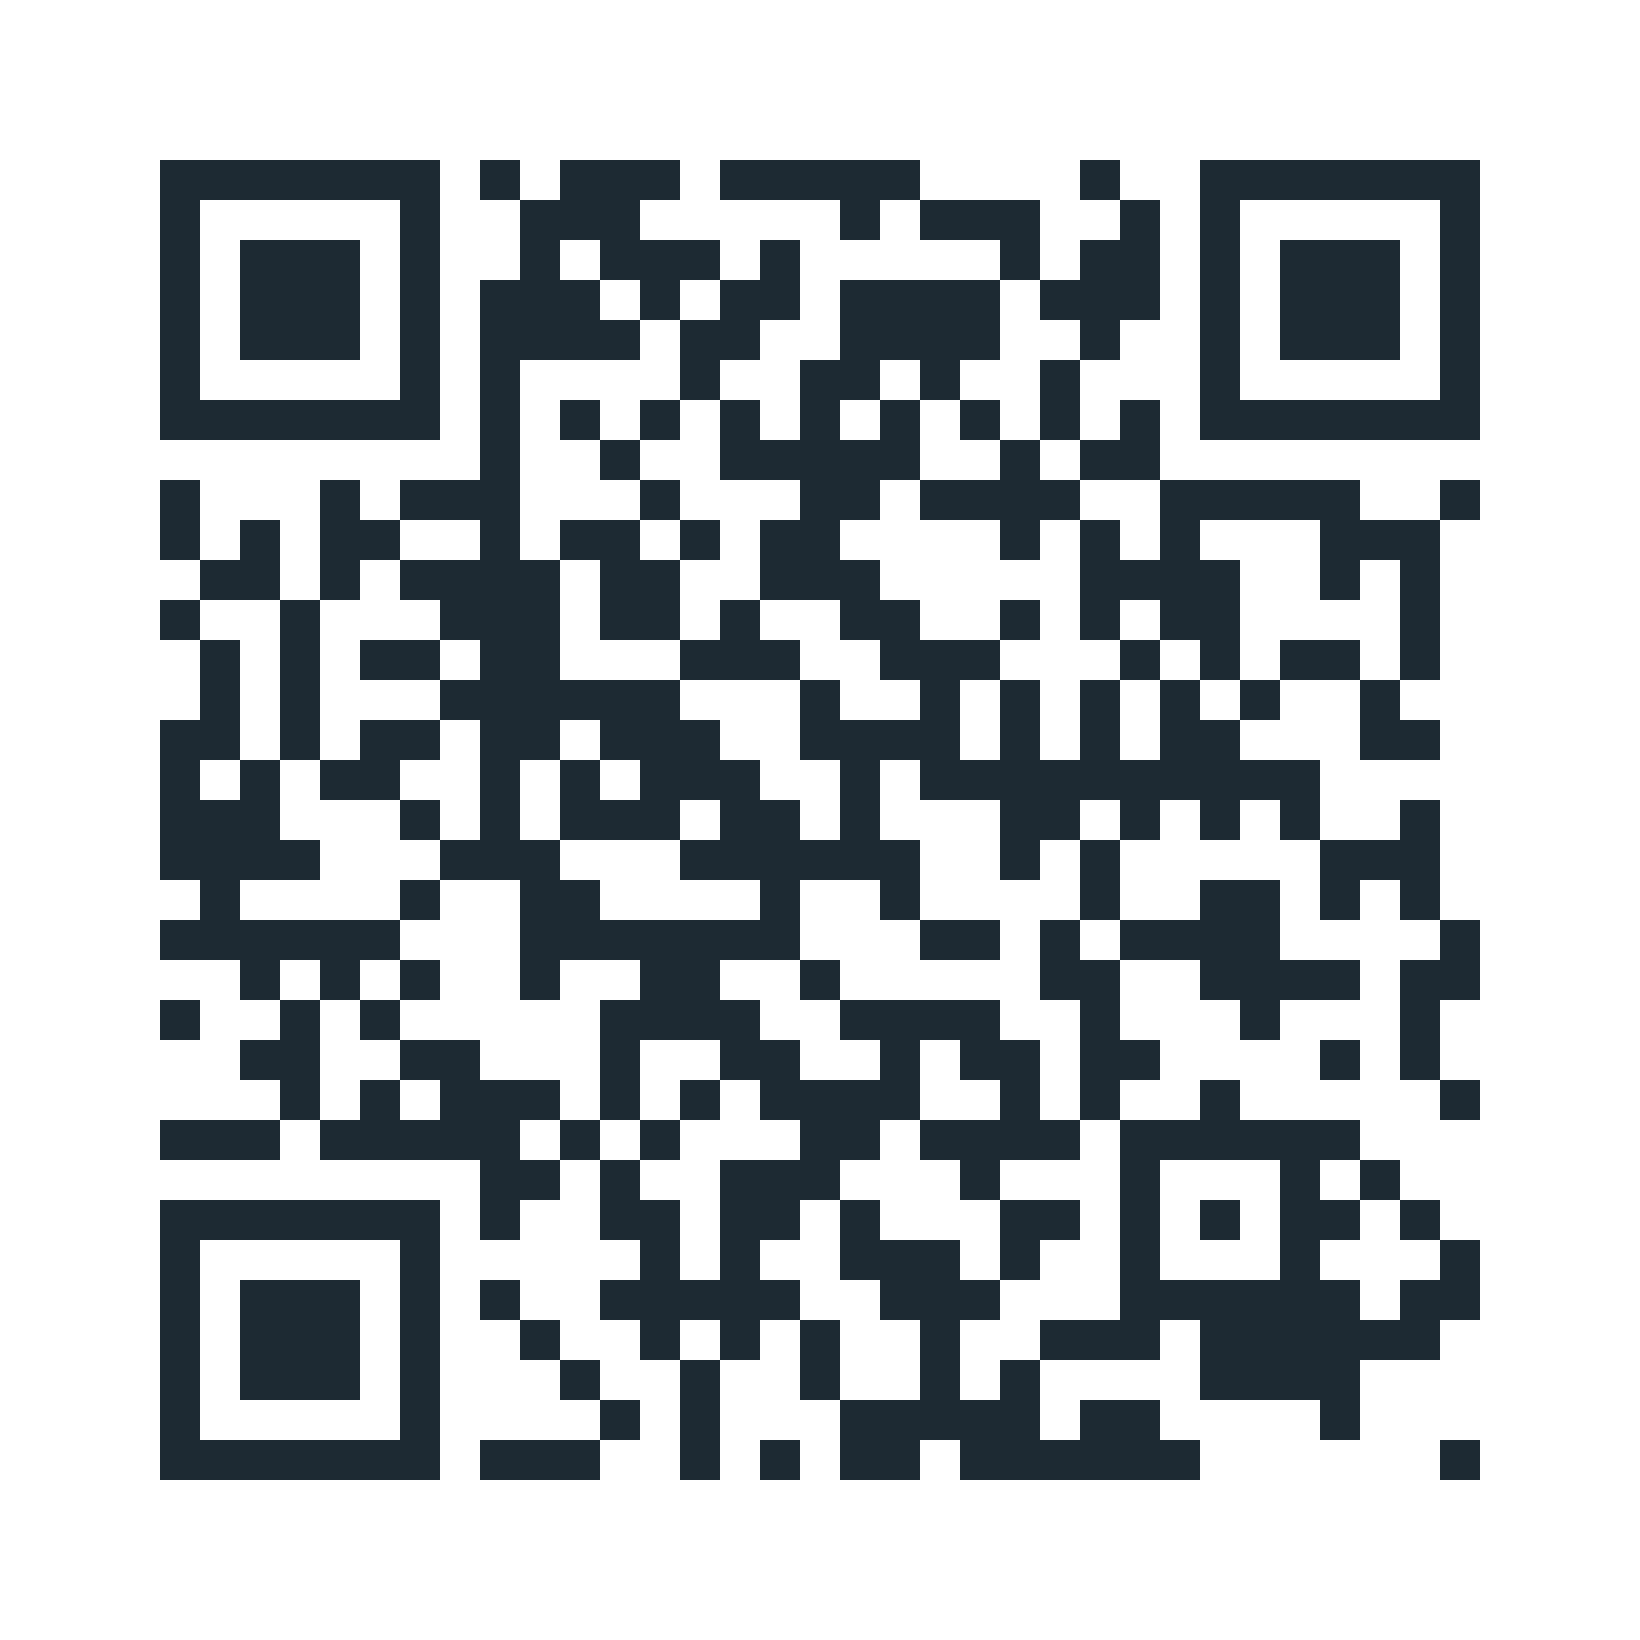
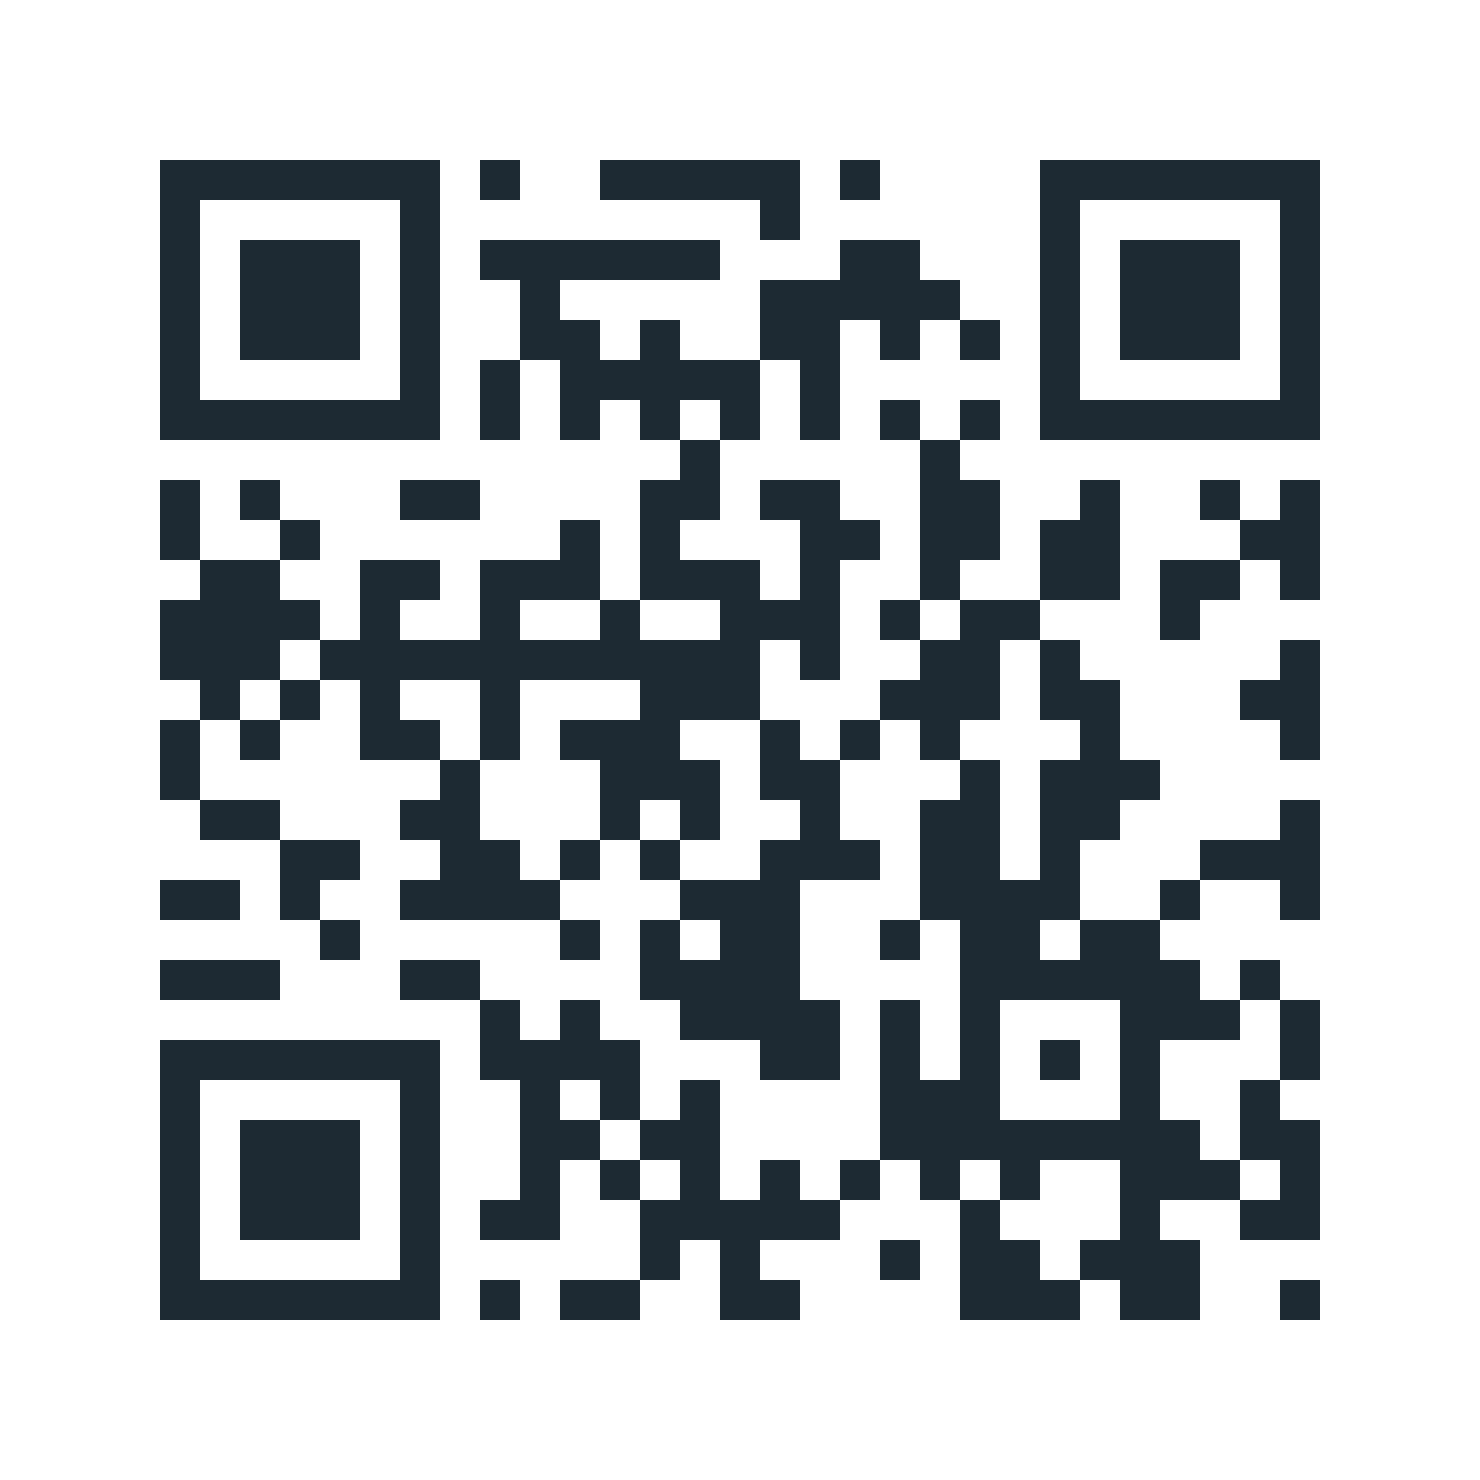
Unterricht Sokrates: QR-Code über das Skriptum-Cockpit (go.renateleeb.photos/p8so)
Scans werden jetzt im Cockpit gezählt. Die direkte Adresse bleibt gültig.

Claude-Session: https://claude.ai/code/session_01GkXpB9BfSXbyE9vh3nXx4u

diff --git a/unterricht/sokrates/index.html b/unterricht/sokrates/index.html
@@ -332,7 +332,7 @@ footer{margin-top:48px;padding-top:16px;border-top:1px solid var(--line);font-si
 </section>
 
 
-<div class="qr-ov" id="qrOv" hidden><div class="qr-card" role="dialog" aria-modal="true" aria-labelledby="qrT"><h2 id="qrT" style="font-family:var(--f-display)">Mit dem Handy öffnen</h2><svg role="img" aria-label="QR-Code zu renateleeb.photos/unterricht/sokrates" xmlns="http://www.w3.org/2000/svg" viewBox="0 0 41 41" shape-rendering="crispEdges"><rect width="41" height="41" fill="#ffffff"/><path d="M4,4h1v1h-1zM5,4h1v1h-1zM6,4h1v1h-1zM7,4h1v1h-1zM8,4h1v1h-1zM9,4h1v1h-1zM10,4h1v1h-1zM12,4h1v1h-1zM14,4h1v1h-1zM15,4h1v1h-1zM16,4h1v1h-1zM18,4h1v1h-1zM19,4h1v1h-1zM20,4h1v1h-1zM21,4h1v1h-1zM22,4h1v1h-1zM27,4h1v1h-1zM30,4h1v1h-1zM31,4h1v1h-1zM32,4h1v1h-1zM33,4h1v1h-1zM34,4h1v1h-1zM35,4h1v1h-1zM36,4h1v1h-1zM4,5h1v1h-1zM10,5h1v1h-1zM13,5h1v1h-1zM14,5h1v1h-1zM15,5h1v1h-1zM21,5h1v1h-1zM23,5h1v1h-1zM24,5h1v1h-1zM25,5h1v1h-1zM28,5h1v1h-1zM30,5h1v1h-1zM36,5h1v1h-1zM4,6h1v1h-1zM6,6h1v1h-1zM7,6h1v1h-1zM8,6h1v1h-1zM10,6h1v1h-1zM13,6h1v1h-1zM15,6h1v1h-1zM16,6h1v1h-1zM17,6h1v1h-1zM19,6h1v1h-1zM25,6h1v1h-1zM27,6h1v1h-1zM28,6h1v1h-1zM30,6h1v1h-1zM32,6h1v1h-1zM33,6h1v1h-1zM34,6h1v1h-1zM36,6h1v1h-1zM4,7h1v1h-1zM6,7h1v1h-1zM7,7h1v1h-1zM8,7h1v1h-1zM10,7h1v1h-1zM12,7h1v1h-1zM13,7h1v1h-1zM14,7h1v1h-1zM16,7h1v1h-1zM18,7h1v1h-1zM19,7h1v1h-1zM21,7h1v1h-1zM22,7h1v1h-1zM23,7h1v1h-1zM24,7h1v1h-1zM26,7h1v1h-1zM27,7h1v1h-1zM28,7h1v1h-1zM30,7h1v1h-1zM32,7h1v1h-1zM33,7h1v1h-1zM34,7h1v1h-1zM36,7h1v1h-1zM4,8h1v1h-1zM6,8h1v1h-1zM7,8h1v1h-1zM8,8h1v1h-1zM10,8h1v1h-1zM12,8h1v1h-1zM13,8h1v1h-1zM14,8h1v1h-1zM15,8h1v1h-1zM17,8h1v1h-1zM18,8h1v1h-1zM21,8h1v1h-1zM22,8h1v1h-1zM23,8h1v1h-1zM24,8h1v1h-1zM27,8h1v1h-1zM30,8h1v1h-1zM32,8h1v1h-1zM33,8h1v1h-1zM34,8h1v1h-1zM36,8h1v1h-1zM4,9h1v1h-1zM10,9h1v1h-1zM12,9h1v1h-1zM17,9h1v1h-1zM20,9h1v1h-1zM21,9h1v1h-1zM23,9h1v1h-1zM26,9h1v1h-1zM30,9h1v1h-1zM36,9h1v1h-1zM4,10h1v1h-1zM5,10h1v1h-1zM6,10h1v1h-1zM7,10h1v1h-1zM8,10h1v1h-1zM9,10h1v1h-1zM10,10h1v1h-1zM12,10h1v1h-1zM14,10h1v1h-1zM16,10h1v1h-1zM18,10h1v1h-1zM20,10h1v1h-1zM22,10h1v1h-1zM24,10h1v1h-1zM26,10h1v1h-1zM28,10h1v1h-1zM30,10h1v1h-1zM31,10h1v1h-1zM32,10h1v1h-1zM33,10h1v1h-1zM34,10h1v1h-1zM35,10h1v1h-1zM36,10h1v1h-1zM12,11h1v1h-1zM15,11h1v1h-1zM18,11h1v1h-1zM19,11h1v1h-1zM20,11h1v1h-1zM21,11h1v1h-1zM22,11h1v1h-1zM25,11h1v1h-1zM27,11h1v1h-1zM28,11h1v1h-1zM4,12h1v1h-1zM8,12h1v1h-1zM10,12h1v1h-1zM11,12h1v1h-1zM12,12h1v1h-1zM16,12h1v1h-1zM20,12h1v1h-1zM21,12h1v1h-1zM23,12h1v1h-1zM24,12h1v1h-1zM25,12h1v1h-1zM26,12h1v1h-1zM29,12h1v1h-1zM30,12h1v1h-1zM31,12h1v1h-1zM32,12h1v1h-1zM33,12h1v1h-1zM36,12h1v1h-1zM4,13h1v1h-1zM6,13h1v1h-1zM8,13h1v1h-1zM9,13h1v1h-1zM12,13h1v1h-1zM14,13h1v1h-1zM15,13h1v1h-1zM17,13h1v1h-1zM19,13h1v1h-1zM20,13h1v1h-1zM25,13h1v1h-1zM27,13h1v1h-1zM29,13h1v1h-1zM33,13h1v1h-1zM34,13h1v1h-1zM35,13h1v1h-1zM5,14h1v1h-1zM6,14h1v1h-1zM8,14h1v1h-1zM10,14h1v1h-1zM11,14h1v1h-1zM12,14h1v1h-1zM13,14h1v1h-1zM15,14h1v1h-1zM16,14h1v1h-1zM19,14h1v1h-1zM20,14h1v1h-1zM21,14h1v1h-1zM27,14h1v1h-1zM28,14h1v1h-1zM29,14h1v1h-1zM30,14h1v1h-1zM33,14h1v1h-1zM35,14h1v1h-1zM4,15h1v1h-1zM7,15h1v1h-1zM11,15h1v1h-1zM12,15h1v1h-1zM13,15h1v1h-1zM15,15h1v1h-1zM16,15h1v1h-1zM18,15h1v1h-1zM21,15h1v1h-1zM22,15h1v1h-1zM25,15h1v1h-1zM27,15h1v1h-1zM29,15h1v1h-1zM30,15h1v1h-1zM35,15h1v1h-1zM5,16h1v1h-1zM7,16h1v1h-1zM9,16h1v1h-1zM10,16h1v1h-1zM12,16h1v1h-1zM13,16h1v1h-1zM17,16h1v1h-1zM18,16h1v1h-1zM19,16h1v1h-1zM22,16h1v1h-1zM23,16h1v1h-1zM24,16h1v1h-1zM28,16h1v1h-1zM30,16h1v1h-1zM32,16h1v1h-1zM33,16h1v1h-1zM35,16h1v1h-1zM5,17h1v1h-1zM7,17h1v1h-1zM11,17h1v1h-1zM12,17h1v1h-1zM13,17h1v1h-1zM14,17h1v1h-1zM15,17h1v1h-1zM16,17h1v1h-1zM20,17h1v1h-1zM23,17h1v1h-1zM25,17h1v1h-1zM27,17h1v1h-1zM29,17h1v1h-1zM31,17h1v1h-1zM34,17h1v1h-1zM4,18h1v1h-1zM5,18h1v1h-1zM7,18h1v1h-1zM9,18h1v1h-1zM10,18h1v1h-1zM12,18h1v1h-1zM13,18h1v1h-1zM15,18h1v1h-1zM16,18h1v1h-1zM17,18h1v1h-1zM20,18h1v1h-1zM21,18h1v1h-1zM22,18h1v1h-1zM23,18h1v1h-1zM25,18h1v1h-1zM27,18h1v1h-1zM29,18h1v1h-1zM30,18h1v1h-1zM34,18h1v1h-1zM35,18h1v1h-1zM4,19h1v1h-1zM6,19h1v1h-1zM8,19h1v1h-1zM9,19h1v1h-1zM12,19h1v1h-1zM14,19h1v1h-1zM16,19h1v1h-1zM17,19h1v1h-1zM18,19h1v1h-1zM21,19h1v1h-1zM23,19h1v1h-1zM24,19h1v1h-1zM25,19h1v1h-1zM26,19h1v1h-1zM27,19h1v1h-1zM28,19h1v1h-1zM29,19h1v1h-1zM30,19h1v1h-1zM31,19h1v1h-1zM32,19h1v1h-1zM4,20h1v1h-1zM5,20h1v1h-1zM6,20h1v1h-1zM10,20h1v1h-1zM12,20h1v1h-1zM14,20h1v1h-1zM15,20h1v1h-1zM16,20h1v1h-1zM18,20h1v1h-1zM19,20h1v1h-1zM21,20h1v1h-1zM25,20h1v1h-1zM26,20h1v1h-1zM28,20h1v1h-1zM30,20h1v1h-1zM32,20h1v1h-1zM35,20h1v1h-1zM4,21h1v1h-1zM5,21h1v1h-1zM6,21h1v1h-1zM7,21h1v1h-1zM11,21h1v1h-1zM12,21h1v1h-1zM13,21h1v1h-1zM17,21h1v1h-1zM18,21h1v1h-1zM19,21h1v1h-1zM20,21h1v1h-1zM21,21h1v1h-1zM22,21h1v1h-1zM25,21h1v1h-1zM27,21h1v1h-1zM33,21h1v1h-1zM34,21h1v1h-1zM35,21h1v1h-1zM5,22h1v1h-1zM10,22h1v1h-1zM13,22h1v1h-1zM14,22h1v1h-1zM19,22h1v1h-1zM22,22h1v1h-1zM27,22h1v1h-1zM30,22h1v1h-1zM31,22h1v1h-1zM33,22h1v1h-1zM35,22h1v1h-1zM4,23h1v1h-1zM5,23h1v1h-1zM6,23h1v1h-1zM7,23h1v1h-1zM8,23h1v1h-1zM9,23h1v1h-1zM13,23h1v1h-1zM14,23h1v1h-1zM15,23h1v1h-1zM16,23h1v1h-1zM17,23h1v1h-1zM18,23h1v1h-1zM19,23h1v1h-1zM23,23h1v1h-1zM24,23h1v1h-1zM26,23h1v1h-1zM28,23h1v1h-1zM29,23h1v1h-1zM30,23h1v1h-1zM31,23h1v1h-1zM36,23h1v1h-1zM6,24h1v1h-1zM8,24h1v1h-1zM10,24h1v1h-1zM13,24h1v1h-1zM16,24h1v1h-1zM17,24h1v1h-1zM20,24h1v1h-1zM26,24h1v1h-1zM27,24h1v1h-1zM30,24h1v1h-1zM31,24h1v1h-1zM32,24h1v1h-1zM33,24h1v1h-1zM35,24h1v1h-1zM36,24h1v1h-1zM4,25h1v1h-1zM7,25h1v1h-1zM9,25h1v1h-1zM15,25h1v1h-1zM16,25h1v1h-1zM17,25h1v1h-1zM18,25h1v1h-1zM21,25h1v1h-1zM22,25h1v1h-1zM23,25h1v1h-1zM24,25h1v1h-1zM27,25h1v1h-1zM31,25h1v1h-1zM35,25h1v1h-1zM6,26h1v1h-1zM7,26h1v1h-1zM10,26h1v1h-1zM11,26h1v1h-1zM15,26h1v1h-1zM18,26h1v1h-1zM19,26h1v1h-1zM22,26h1v1h-1zM24,26h1v1h-1zM25,26h1v1h-1zM27,26h1v1h-1zM28,26h1v1h-1zM33,26h1v1h-1zM35,26h1v1h-1zM7,27h1v1h-1zM9,27h1v1h-1zM11,27h1v1h-1zM12,27h1v1h-1zM13,27h1v1h-1zM15,27h1v1h-1zM17,27h1v1h-1zM19,27h1v1h-1zM20,27h1v1h-1zM21,27h1v1h-1zM22,27h1v1h-1zM25,27h1v1h-1zM27,27h1v1h-1zM30,27h1v1h-1zM36,27h1v1h-1zM4,28h1v1h-1zM5,28h1v1h-1zM6,28h1v1h-1zM8,28h1v1h-1zM9,28h1v1h-1zM10,28h1v1h-1zM11,28h1v1h-1zM12,28h1v1h-1zM14,28h1v1h-1zM16,28h1v1h-1zM20,28h1v1h-1zM21,28h1v1h-1zM23,28h1v1h-1zM24,28h1v1h-1zM25,28h1v1h-1zM26,28h1v1h-1zM28,28h1v1h-1zM29,28h1v1h-1zM30,28h1v1h-1zM31,28h1v1h-1zM32,28h1v1h-1zM33,28h1v1h-1zM12,29h1v1h-1zM13,29h1v1h-1zM15,29h1v1h-1zM18,29h1v1h-1zM19,29h1v1h-1zM20,29h1v1h-1zM24,29h1v1h-1zM28,29h1v1h-1zM32,29h1v1h-1zM34,29h1v1h-1zM4,30h1v1h-1zM5,30h1v1h-1zM6,30h1v1h-1zM7,30h1v1h-1zM8,30h1v1h-1zM9,30h1v1h-1zM10,30h1v1h-1zM12,30h1v1h-1zM15,30h1v1h-1zM16,30h1v1h-1zM18,30h1v1h-1zM19,30h1v1h-1zM21,30h1v1h-1zM25,30h1v1h-1zM26,30h1v1h-1zM28,30h1v1h-1zM30,30h1v1h-1zM32,30h1v1h-1zM33,30h1v1h-1zM35,30h1v1h-1zM4,31h1v1h-1zM10,31h1v1h-1zM16,31h1v1h-1zM18,31h1v1h-1zM21,31h1v1h-1zM22,31h1v1h-1zM23,31h1v1h-1zM25,31h1v1h-1zM28,31h1v1h-1zM32,31h1v1h-1zM36,31h1v1h-1zM4,32h1v1h-1zM6,32h1v1h-1zM7,32h1v1h-1zM8,32h1v1h-1zM10,32h1v1h-1zM12,32h1v1h-1zM15,32h1v1h-1zM16,32h1v1h-1zM17,32h1v1h-1zM18,32h1v1h-1zM19,32h1v1h-1zM22,32h1v1h-1zM23,32h1v1h-1zM24,32h1v1h-1zM28,32h1v1h-1zM29,32h1v1h-1zM30,32h1v1h-1zM31,32h1v1h-1zM32,32h1v1h-1zM33,32h1v1h-1zM35,32h1v1h-1zM36,32h1v1h-1zM4,33h1v1h-1zM6,33h1v1h-1zM7,33h1v1h-1zM8,33h1v1h-1zM10,33h1v1h-1zM13,33h1v1h-1zM16,33h1v1h-1zM18,33h1v1h-1zM20,33h1v1h-1zM23,33h1v1h-1zM26,33h1v1h-1zM27,33h1v1h-1zM28,33h1v1h-1zM30,33h1v1h-1zM31,33h1v1h-1zM32,33h1v1h-1zM33,33h1v1h-1zM34,33h1v1h-1zM35,33h1v1h-1zM4,34h1v1h-1zM6,34h1v1h-1zM7,34h1v1h-1zM8,34h1v1h-1zM10,34h1v1h-1zM14,34h1v1h-1zM17,34h1v1h-1zM20,34h1v1h-1zM23,34h1v1h-1zM25,34h1v1h-1zM30,34h1v1h-1zM31,34h1v1h-1zM32,34h1v1h-1zM33,34h1v1h-1zM4,35h1v1h-1zM10,35h1v1h-1zM15,35h1v1h-1zM17,35h1v1h-1zM21,35h1v1h-1zM22,35h1v1h-1zM23,35h1v1h-1zM24,35h1v1h-1zM25,35h1v1h-1zM27,35h1v1h-1zM28,35h1v1h-1zM33,35h1v1h-1zM4,36h1v1h-1zM5,36h1v1h-1zM6,36h1v1h-1zM7,36h1v1h-1zM8,36h1v1h-1zM9,36h1v1h-1zM10,36h1v1h-1zM12,36h1v1h-1zM13,36h1v1h-1zM14,36h1v1h-1zM17,36h1v1h-1zM19,36h1v1h-1zM21,36h1v1h-1zM22,36h1v1h-1zM24,36h1v1h-1zM25,36h1v1h-1zM26,36h1v1h-1zM27,36h1v1h-1zM28,36h1v1h-1zM29,36h1v1h-1zM36,36h1v1h-1z" fill="#1d2a33"/></svg><code>renateleeb.photos/unterricht/sokrates</code><button id="qrClose">Schließen</button></div></div>
+<div class="qr-ov" id="qrOv" hidden><div class="qr-card" role="dialog" aria-modal="true" aria-labelledby="qrT"><h2 id="qrT" style="font-family:var(--f-display)">Mit dem Handy öffnen</h2><svg role="img" aria-label="QR-Code zu go.renateleeb.photos/p8so" xmlns="http://www.w3.org/2000/svg" viewBox="0 0 37 37" shape-rendering="crispEdges"><rect width="37" height="37" fill="#ffffff"/><path d="M4,4h1v1h-1zM5,4h1v1h-1zM6,4h1v1h-1zM7,4h1v1h-1zM8,4h1v1h-1zM9,4h1v1h-1zM10,4h1v1h-1zM12,4h1v1h-1zM15,4h1v1h-1zM16,4h1v1h-1zM17,4h1v1h-1zM18,4h1v1h-1zM19,4h1v1h-1zM21,4h1v1h-1zM26,4h1v1h-1zM27,4h1v1h-1zM28,4h1v1h-1zM29,4h1v1h-1zM30,4h1v1h-1zM31,4h1v1h-1zM32,4h1v1h-1zM4,5h1v1h-1zM10,5h1v1h-1zM19,5h1v1h-1zM26,5h1v1h-1zM32,5h1v1h-1zM4,6h1v1h-1zM6,6h1v1h-1zM7,6h1v1h-1zM8,6h1v1h-1zM10,6h1v1h-1zM12,6h1v1h-1zM13,6h1v1h-1zM14,6h1v1h-1zM15,6h1v1h-1zM16,6h1v1h-1zM17,6h1v1h-1zM21,6h1v1h-1zM22,6h1v1h-1zM26,6h1v1h-1zM28,6h1v1h-1zM29,6h1v1h-1zM30,6h1v1h-1zM32,6h1v1h-1zM4,7h1v1h-1zM6,7h1v1h-1zM7,7h1v1h-1zM8,7h1v1h-1zM10,7h1v1h-1zM13,7h1v1h-1zM19,7h1v1h-1zM20,7h1v1h-1zM21,7h1v1h-1zM22,7h1v1h-1zM23,7h1v1h-1zM26,7h1v1h-1zM28,7h1v1h-1zM29,7h1v1h-1zM30,7h1v1h-1zM32,7h1v1h-1zM4,8h1v1h-1zM6,8h1v1h-1zM7,8h1v1h-1zM8,8h1v1h-1zM10,8h1v1h-1zM13,8h1v1h-1zM14,8h1v1h-1zM16,8h1v1h-1zM19,8h1v1h-1zM20,8h1v1h-1zM22,8h1v1h-1zM24,8h1v1h-1zM26,8h1v1h-1zM28,8h1v1h-1zM29,8h1v1h-1zM30,8h1v1h-1zM32,8h1v1h-1zM4,9h1v1h-1zM10,9h1v1h-1zM12,9h1v1h-1zM14,9h1v1h-1zM15,9h1v1h-1zM16,9h1v1h-1zM17,9h1v1h-1zM18,9h1v1h-1zM20,9h1v1h-1zM26,9h1v1h-1zM32,9h1v1h-1zM4,10h1v1h-1zM5,10h1v1h-1zM6,10h1v1h-1zM7,10h1v1h-1zM8,10h1v1h-1zM9,10h1v1h-1zM10,10h1v1h-1zM12,10h1v1h-1zM14,10h1v1h-1zM16,10h1v1h-1zM18,10h1v1h-1zM20,10h1v1h-1zM22,10h1v1h-1zM24,10h1v1h-1zM26,10h1v1h-1zM27,10h1v1h-1zM28,10h1v1h-1zM29,10h1v1h-1zM30,10h1v1h-1zM31,10h1v1h-1zM32,10h1v1h-1zM17,11h1v1h-1zM23,11h1v1h-1zM4,12h1v1h-1zM6,12h1v1h-1zM10,12h1v1h-1zM11,12h1v1h-1zM16,12h1v1h-1zM17,12h1v1h-1zM19,12h1v1h-1zM20,12h1v1h-1zM23,12h1v1h-1zM24,12h1v1h-1zM27,12h1v1h-1zM30,12h1v1h-1zM32,12h1v1h-1zM4,13h1v1h-1zM7,13h1v1h-1zM14,13h1v1h-1zM16,13h1v1h-1zM20,13h1v1h-1zM21,13h1v1h-1zM23,13h1v1h-1zM24,13h1v1h-1zM26,13h1v1h-1zM27,13h1v1h-1zM31,13h1v1h-1zM32,13h1v1h-1zM5,14h1v1h-1zM6,14h1v1h-1zM9,14h1v1h-1zM10,14h1v1h-1zM12,14h1v1h-1zM13,14h1v1h-1zM14,14h1v1h-1zM16,14h1v1h-1zM17,14h1v1h-1zM18,14h1v1h-1zM20,14h1v1h-1zM23,14h1v1h-1zM26,14h1v1h-1zM27,14h1v1h-1zM29,14h1v1h-1zM30,14h1v1h-1zM32,14h1v1h-1zM4,15h1v1h-1zM5,15h1v1h-1zM6,15h1v1h-1zM7,15h1v1h-1zM9,15h1v1h-1zM12,15h1v1h-1zM15,15h1v1h-1zM18,15h1v1h-1zM19,15h1v1h-1zM20,15h1v1h-1zM22,15h1v1h-1zM24,15h1v1h-1zM25,15h1v1h-1zM29,15h1v1h-1zM4,16h1v1h-1zM5,16h1v1h-1zM6,16h1v1h-1zM8,16h1v1h-1zM9,16h1v1h-1zM10,16h1v1h-1zM11,16h1v1h-1zM12,16h1v1h-1zM13,16h1v1h-1zM14,16h1v1h-1zM15,16h1v1h-1zM16,16h1v1h-1zM17,16h1v1h-1zM18,16h1v1h-1zM20,16h1v1h-1zM23,16h1v1h-1zM24,16h1v1h-1zM26,16h1v1h-1zM32,16h1v1h-1zM5,17h1v1h-1zM7,17h1v1h-1zM9,17h1v1h-1zM12,17h1v1h-1zM16,17h1v1h-1zM17,17h1v1h-1zM18,17h1v1h-1zM22,17h1v1h-1zM23,17h1v1h-1zM24,17h1v1h-1zM26,17h1v1h-1zM27,17h1v1h-1zM31,17h1v1h-1zM32,17h1v1h-1zM4,18h1v1h-1zM6,18h1v1h-1zM9,18h1v1h-1zM10,18h1v1h-1zM12,18h1v1h-1zM14,18h1v1h-1zM15,18h1v1h-1zM16,18h1v1h-1zM19,18h1v1h-1zM21,18h1v1h-1zM23,18h1v1h-1zM27,18h1v1h-1zM32,18h1v1h-1zM4,19h1v1h-1zM11,19h1v1h-1zM15,19h1v1h-1zM16,19h1v1h-1zM17,19h1v1h-1zM19,19h1v1h-1zM20,19h1v1h-1zM24,19h1v1h-1zM26,19h1v1h-1zM27,19h1v1h-1zM28,19h1v1h-1zM5,20h1v1h-1zM6,20h1v1h-1zM10,20h1v1h-1zM11,20h1v1h-1zM15,20h1v1h-1zM17,20h1v1h-1zM20,20h1v1h-1zM23,20h1v1h-1zM24,20h1v1h-1zM26,20h1v1h-1zM27,20h1v1h-1zM32,20h1v1h-1zM7,21h1v1h-1zM8,21h1v1h-1zM11,21h1v1h-1zM12,21h1v1h-1zM14,21h1v1h-1zM16,21h1v1h-1zM19,21h1v1h-1zM20,21h1v1h-1zM21,21h1v1h-1zM23,21h1v1h-1zM24,21h1v1h-1zM26,21h1v1h-1zM30,21h1v1h-1zM31,21h1v1h-1zM32,21h1v1h-1zM4,22h1v1h-1zM5,22h1v1h-1zM7,22h1v1h-1zM10,22h1v1h-1zM11,22h1v1h-1zM12,22h1v1h-1zM13,22h1v1h-1zM17,22h1v1h-1zM18,22h1v1h-1zM19,22h1v1h-1zM23,22h1v1h-1zM24,22h1v1h-1zM25,22h1v1h-1zM26,22h1v1h-1zM29,22h1v1h-1zM32,22h1v1h-1zM8,23h1v1h-1zM14,23h1v1h-1zM16,23h1v1h-1zM18,23h1v1h-1zM19,23h1v1h-1zM22,23h1v1h-1zM24,23h1v1h-1zM25,23h1v1h-1zM27,23h1v1h-1zM28,23h1v1h-1zM4,24h1v1h-1zM5,24h1v1h-1zM6,24h1v1h-1zM10,24h1v1h-1zM11,24h1v1h-1zM16,24h1v1h-1zM17,24h1v1h-1zM18,24h1v1h-1zM19,24h1v1h-1zM24,24h1v1h-1zM25,24h1v1h-1zM26,24h1v1h-1zM27,24h1v1h-1zM28,24h1v1h-1zM29,24h1v1h-1zM31,24h1v1h-1zM12,25h1v1h-1zM14,25h1v1h-1zM17,25h1v1h-1zM18,25h1v1h-1zM19,25h1v1h-1zM20,25h1v1h-1zM22,25h1v1h-1zM24,25h1v1h-1zM28,25h1v1h-1zM29,25h1v1h-1zM30,25h1v1h-1zM32,25h1v1h-1zM4,26h1v1h-1zM5,26h1v1h-1zM6,26h1v1h-1zM7,26h1v1h-1zM8,26h1v1h-1zM9,26h1v1h-1zM10,26h1v1h-1zM12,26h1v1h-1zM13,26h1v1h-1zM14,26h1v1h-1zM15,26h1v1h-1zM19,26h1v1h-1zM20,26h1v1h-1zM22,26h1v1h-1zM24,26h1v1h-1zM26,26h1v1h-1zM28,26h1v1h-1zM32,26h1v1h-1zM4,27h1v1h-1zM10,27h1v1h-1zM13,27h1v1h-1zM15,27h1v1h-1zM17,27h1v1h-1zM22,27h1v1h-1zM23,27h1v1h-1zM24,27h1v1h-1zM28,27h1v1h-1zM31,27h1v1h-1zM4,28h1v1h-1zM6,28h1v1h-1zM7,28h1v1h-1zM8,28h1v1h-1zM10,28h1v1h-1zM13,28h1v1h-1zM14,28h1v1h-1zM16,28h1v1h-1zM17,28h1v1h-1zM22,28h1v1h-1zM23,28h1v1h-1zM24,28h1v1h-1zM25,28h1v1h-1zM26,28h1v1h-1zM27,28h1v1h-1zM28,28h1v1h-1zM29,28h1v1h-1zM31,28h1v1h-1zM32,28h1v1h-1zM4,29h1v1h-1zM6,29h1v1h-1zM7,29h1v1h-1zM8,29h1v1h-1zM10,29h1v1h-1zM13,29h1v1h-1zM15,29h1v1h-1zM17,29h1v1h-1zM19,29h1v1h-1zM21,29h1v1h-1zM23,29h1v1h-1zM25,29h1v1h-1zM28,29h1v1h-1zM29,29h1v1h-1zM30,29h1v1h-1zM32,29h1v1h-1zM4,30h1v1h-1zM6,30h1v1h-1zM7,30h1v1h-1zM8,30h1v1h-1zM10,30h1v1h-1zM12,30h1v1h-1zM13,30h1v1h-1zM16,30h1v1h-1zM17,30h1v1h-1zM18,30h1v1h-1zM19,30h1v1h-1zM20,30h1v1h-1zM24,30h1v1h-1zM28,30h1v1h-1zM31,30h1v1h-1zM32,30h1v1h-1zM4,31h1v1h-1zM10,31h1v1h-1zM16,31h1v1h-1zM18,31h1v1h-1zM22,31h1v1h-1zM24,31h1v1h-1zM25,31h1v1h-1zM27,31h1v1h-1zM28,31h1v1h-1zM29,31h1v1h-1zM4,32h1v1h-1zM5,32h1v1h-1zM6,32h1v1h-1zM7,32h1v1h-1zM8,32h1v1h-1zM9,32h1v1h-1zM10,32h1v1h-1zM12,32h1v1h-1zM14,32h1v1h-1zM15,32h1v1h-1zM18,32h1v1h-1zM19,32h1v1h-1zM24,32h1v1h-1zM25,32h1v1h-1zM26,32h1v1h-1zM28,32h1v1h-1zM29,32h1v1h-1zM32,32h1v1h-1z" fill="#1d2a33"/></svg><code>go.renateleeb.photos/p8so</code><button id="qrClose">Schließen</button></div></div>
 <footer>Dialoge Menon und Laches nach Platon: Sämtliche Dialoge. Euthyphron, Orakel, Kriton und Der letzte Tag frei nach Platon, gekürzt. · <a href="/">renateleeb.photos</a> · <a href="/impressum/">Impressum</a> · <a href="/datenschutz/">Datenschutz</a></footer>
 </div>
 
